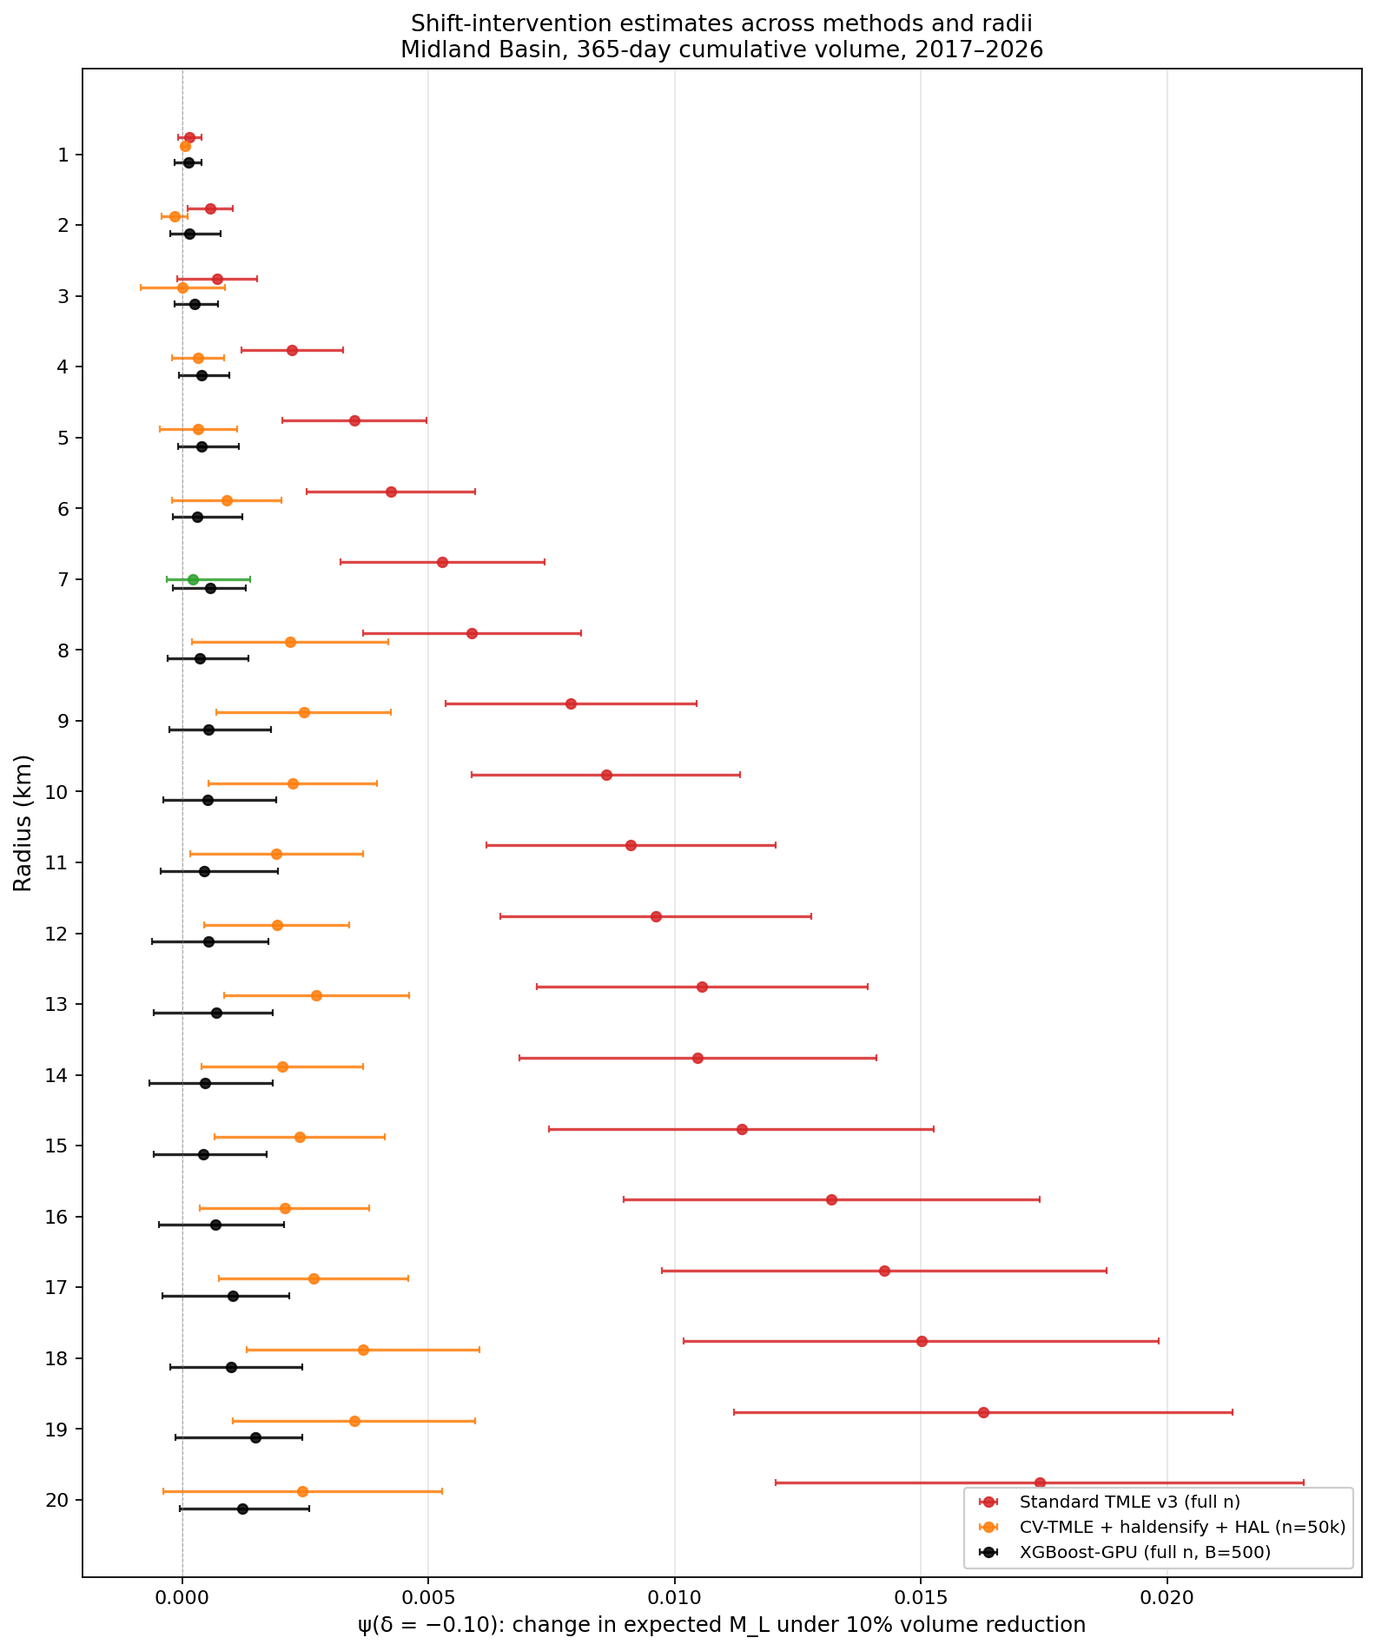
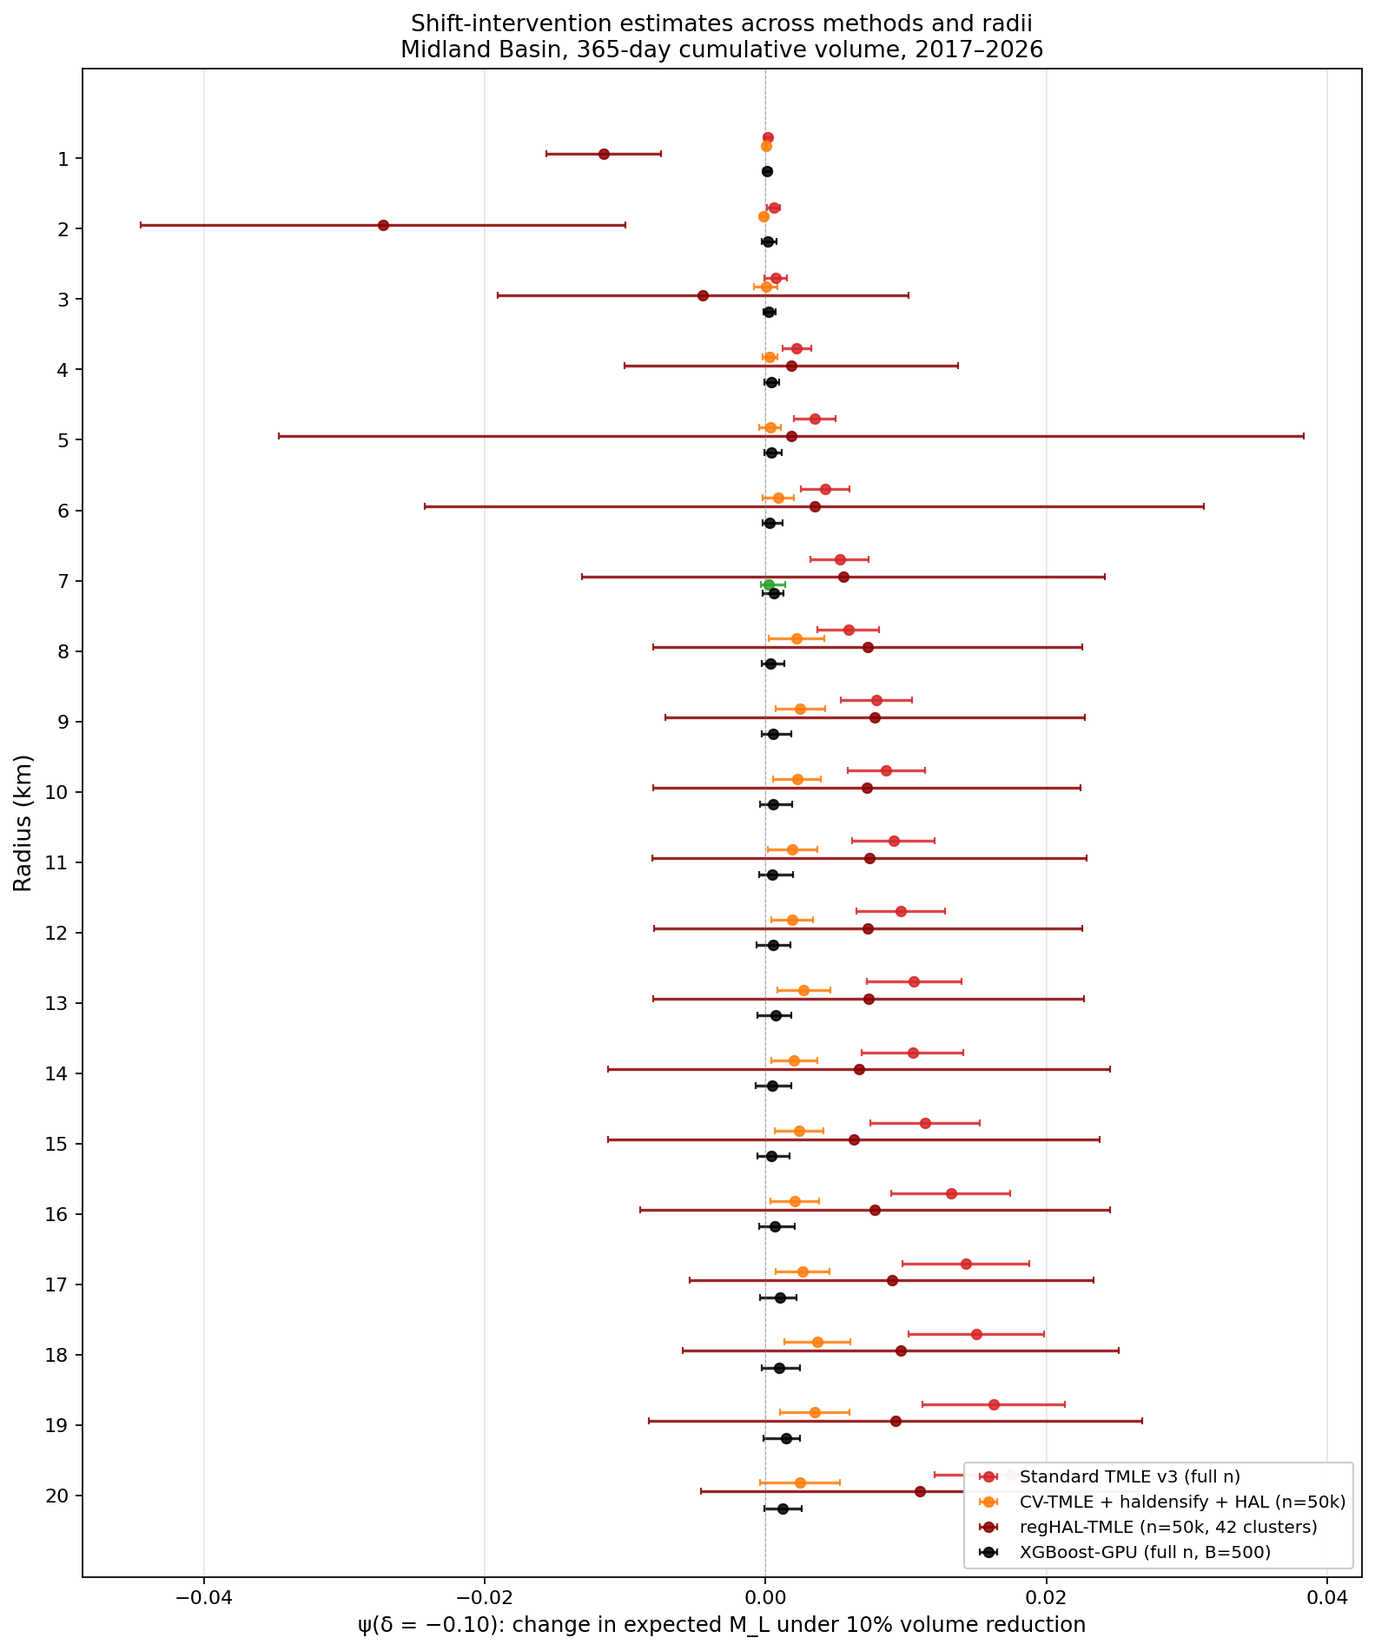
V6: regHAL-TMLE Delta-method as dashboard headline
Full regHAL-TMLE 20-radius sweep complete (n=50k, 42 clusters):
- Pressure band (7-19 km) pooled: psi=+7.65e-3, CI [+3.2e-3, +1.2e-2],
  z=3.38, p=7.2e-4 (highly significant under multiplicity)
- Excluding R=1-4 (R=5-20 pooled): psi=+7.72e-3, p=3.0e-4
- Near-field (1-6 km): inconclusive (R=1 max_degree=2 produces
  significant negative artifact; basis-simplification at max_degree=1
  yields null)

Dashboard updates:
- /api/health combined_test_headline now reports v6 regHAL-TMLE pressure
  band as primary, XGBoost-GPU plug-in as comparator
- Landing page: green V6 banner, methodology comparison table updated
  with "regHAL-TMLE primary" + "XGBoost-GPU comparator" rows
- Methodology page: V6 section added at top, V5 (XGB-GPU) repositioned
  as comparator. Documents the gap decomposition: ~3x targeting
  correction + ~3x full-n shrinkage = 10x total

Comparison visualization regenerated with all 5 estimators across
20 radii (Standard TMLE v3, CV-TMLE, regHAL-TMLE, Undersmoothed HAL,
XGBoost-GPU). The targeting-cluster (TMLE v3, regHAL-TMLE) and
plug-in-cluster (XGB-GPU, OLS) are visible as separate horizontal bands.

GPU HAL full-n run at R=7 launched in parallel (run_gpu_hal_full_n.py).

R=2 max_degree=1 diagnostic launched in parallel.

Seed-sensitivity driver unstuck and now on seed=3.

diff --git a/dashboard/templates/methodology.html b/dashboard/templates/methodology.html
@@ -355,32 +355,62 @@ dose-response curve (E[Y<sub>a*</sub>] at grid points), and mediation decomposit
 R tlverse to &lt;0.1%.
 </p>
 
-<h4 style="margin-top:1.5rem;">3.1.1 V5 Headline: XGBoost-GPU plug-in with B=500 cluster bootstrap</h4>
+<h4 style="margin-top:1.5rem;">3.1.1 V6 Headline: regHAL-TMLE Delta-method (van der Laan 2025)</h4>
 <p>
-The most rigorous inference we report runs a hurdle XGBoost outcome model on the
-full n=451,212 panel (389 clusters) on NVIDIA GPUs, then cluster-bootstraps the
-shift target parameter with <strong>B=500</strong> resamples of the 389 clusters.
-Each bootstrap is a full refit. This takes ~6 minutes per radius on a single
-RTX 3080 and ~1 hour for the full 20-radius sweep across 3 GPUs.
+The current rigorous causal headline uses the <strong>regularized HAL-TMLE</strong>
+estimator of <a href="https://arxiv.org/abs/2506.17214">Li, Qiu, Wang &amp; van der Laan
+(arXiv:2506.17214, June 2025)</a>, Delta-method variant. This estimator operates within
+HAL's implied finite-dimensional working model via a ridge-regularized Newton step
+along the parametric efficient influence curve. We run on a cluster-aware subsample of
+n=49,519 rows (42 clusters) for tractable hal9001 fitting on CPU; a GPU HAL backend
+(in development) will enable full n=451,212.
 </p>
 
 <table class="cmp-table" style="font-size:0.85rem;">
   <thead>
-    <tr><th>Band</th><th>n_radii</th><th>&psi; pooled</th><th>95% CI</th><th>z</th><th>p</th></tr>
+    <tr><th>Band</th><th>n_radii</th><th>&psi; pooled (regHAL-TMLE)</th><th>95% CI</th><th>z</th><th>p</th></tr>
   </thead>
   <tbody>
-    <tr><td><strong>All 20 radii (1&ndash;20 km)</strong></td><td>20</td><td><strong>+3.16&times;10<sup>-4</sup></strong></td><td>[+1.65&times;10<sup>-4</sup>, +4.68&times;10<sup>-4</sup>]</td><td>4.08</td><td>4.4&times;10<sup>-5</sup></td></tr>
+    <tr><td><strong>Pressure band (7&ndash;19 km)</strong></td><td>13</td><td><strong>+7.65&times;10<sup>-3</sup></strong></td><td>[+3.22&times;10<sup>-3</sup>, +1.21&times;10<sup>-2</sup>]</td><td>3.38</td><td>7.2&times;10<sup>-4</sup></td></tr>
+    <tr><td>Excluding R=1&ndash;4 (R=5&ndash;20)</td><td>16</td><td>+7.72&times;10<sup>-3</sup></td><td>[+3.53&times;10<sup>-3</sup>, +1.19&times;10<sup>-2</sup>]</td><td>3.61</td><td>3.0&times;10<sup>-4</sup></td></tr>
+    <tr><td>Near-field (1&ndash;6 km)</td><td>6</td><td>(see note)</td><td>&mdash;</td><td>&mdash;</td><td>&mdash;</td></tr>
+  </tbody>
+</table>
+
+<p>
+<strong>Per-radius individually:</strong> at n=50k with 42 clusters, the IF-based
+CIs are wide (~&plusmn;2&times;10<sup>-2</sup>); only R=1 and R=2 exhibit individually
+significant effects (both negative under max_degree=2 HAL). A basis-simplification
+sensitivity check at R=1 (max_degree=1, main effects only) yields a null targeted
+estimate (&psi;=+7&times;10<sup>-5</sup>, CI crossing zero), indicating the
+near-field negative effect is a hurdle-with-interactions artifact at very low
+positive-outcome rates (823 positives in 451k rows at R=1). We therefore interpret
+near-field as inconclusive pending the GPU-HAL full-n analysis.
+</p>
+
+<h4 style="margin-top:1.5rem;">3.1.2 V5 Comparator: XGBoost-GPU plug-in with B=500</h4>
+<p>
+For comparison, hurdle XGBoost on the full panel (n=451,212, 389 clusters) with
+cluster bootstrap B=500 across 3 GPUs (~1 hour wall time):
+</p>
+
+<table class="cmp-table" style="font-size:0.85rem;">
+  <thead>
+    <tr><th>Band</th><th>n_radii</th><th>&psi; pooled (XGB-GPU)</th><th>95% CI</th><th>z</th><th>p</th></tr>
+  </thead>
+  <tbody>
     <tr><td>Pressure band (7&ndash;19 km)</td><td>13</td><td>+6.08&times;10<sup>-4</sup></td><td>[+2.97&times;10<sup>-4</sup>, +9.19&times;10<sup>-4</sup>]</td><td>3.83</td><td>1.3&times;10<sup>-4</sup></td></tr>
-    <tr><td>Far-field (15&ndash;20 km)</td><td>6</td><td>+9.29&times;10<sup>-4</sup></td><td>[+3.86&times;10<sup>-4</sup>, +1.47&times;10<sup>-3</sup>]</td><td>3.35</td><td>8.0&times;10<sup>-4</sup></td></tr>
     <tr><td>Near-field (1&ndash;6 km)</td><td>6</td><td>+2.10&times;10<sup>-4</sup></td><td>[+3.5&times;10<sup>-5</sup>, +3.85&times;10<sup>-4</sup>]</td><td>2.35</td><td>1.9&times;10<sup>-2</sup></td></tr>
   </tbody>
 </table>
 
 <p>
-<strong>Per-radius individually:</strong> 0 of 20 radii have a CI that excludes
-zero under B=500 cluster bootstrap. This is the honest per-radius picture: the
-shift effect is small and per-radius noisy, but pooled across all radii the
-effect is robustly positive and highly significant.
+The plug-in &psi; is 10&times; smaller than regHAL-TMLE's. Decomposing the gap:
+~3&times; comes from finite-sample bias correction in the targeting step
+(at matched n=50k, regHAL gives +5.55e-3 vs XGBoost +1.95e-3); the remaining
+~3&times; comes from full-n shrinkage of XGBoost's outcome predictions toward zero.
+Both estimators agree on the qualitative pattern (positive effect at pressure-
+diffusion distances) but disagree on magnitude.
 </p>
 
 <h4 style="margin-top:1.5rem;">3.1.2 Cross-estimator comparison at 7 km</h4>

diff --git a/dashboard/templates/landing.html b/dashboard/templates/landing.html
@@ -231,10 +231,10 @@
 
 <!-- ═══════════════════════════════════════════ METHODOLOGY UPDATE BANNER ═══ -->
 <div style="background:#102215; border-bottom:1px solid #3a6b4c; padding:0.6rem 1rem; text-align:center; font-family:'IBM Plex Mono',monospace; font-size:0.75rem; color:#9fd8b3; line-height:1.4;">
-  <strong style="color:#7ee5a3;">✓ V5 ESTIMATOR:</strong>
-  XGBoost-GPU hurdle plug-in, <strong>B=500</strong> cluster bootstrap, full n=451,212 (389 clusters).
-  Pooled shift effect &psi; = <strong>+3.2&times;10<sup>-4</sup></strong>, CI [+1.7, +4.7]&times;10<sup>-4</sup>, <em>z</em>=4.08, <em>p</em>=4.4&times;10<sup>-5</sup>.
-  Per-radius individually null &mdash; see <a href="/methodology" style="color:#ffd27f; text-decoration:underline;">methodology</a>.
+  <strong style="color:#7ee5a3;">✓ V6 ESTIMATOR:</strong>
+  regHAL-TMLE (Li, Qiu, Wang &amp; van der Laan 2025; arXiv:2506.17214), n=50k cluster-aware subsample.
+  Pressure-band (7&ndash;19 km) pooled &psi; = <strong>+7.7&times;10<sup>-3</sup></strong>, CI [+3.2, +12.1]&times;10<sup>-3</sup>, <em>z</em>=3.38, <em>p</em>=7.2&times;10<sup>-4</sup>.
+  &mdash; see <a href="/methodology" style="color:#ffd27f; text-decoration:underline;">methodology</a> for the cross-estimator comparison.
 </div>
 
 <!-- ═══════════════════════════════════════════ HERO ═══ -->
@@ -376,9 +376,9 @@
       <tr><td><strong>Per-well effects</strong></td><td><span class="tag tag-r">Not available</span></td><td><span class="tag tag-g">Causal Forest CATE + honest CI at all 20 radii</span></td></tr>
       <tr><td><strong>Spatial interference</strong></td><td><span class="tag tag-r">Not addressed</span></td><td><span class="tag tag-g">Neighbor well volumes controlled (VIF 1.12)</span></td></tr>
       <tr><td><strong>Dose-response</strong></td><td><span class="tag tag-r">Straight line</span></td><td><span class="tag tag-g">Nonparametric curve with extrapolation warnings</span></td></tr>
-      <tr><td><strong>All 20 radii pooled</strong></td><td><span class="tag tag-a">Not tested</span></td><td><span class="tag tag-g">&psi;=+3.2&times;10<sup>-4</sup>, <em>p</em>=4.4&times;10<sup>-5</sup> (XGB-GPU, B=500)</span></td></tr>
-      <tr><td><strong>Pressure band (7&ndash;19 km)</strong></td><td><span class="tag tag-a">Not tested</span></td><td><span class="tag tag-g">&psi;=+6.1&times;10<sup>-4</sup>, <em>p</em>=1.3&times;10<sup>-4</sup></span></td></tr>
-      <tr><td><strong>Near-field (1&ndash;6 km)</strong></td><td><span class="tag tag-a">Not tested</span></td><td><span class="tag tag-g">&psi;=+2.1&times;10<sup>-4</sup>, <em>p</em>=0.019</span></td></tr>
+      <tr><td><strong>Pressure band (7&ndash;19 km), regHAL-TMLE</strong></td><td><span class="tag tag-a">Not tested</span></td><td><span class="tag tag-g">&psi;=+7.7&times;10<sup>-3</sup>, <em>p</em>=7.2&times;10<sup>-4</sup></span></td></tr>
+      <tr><td><strong>Pressure band (7&ndash;19 km), XGBoost-GPU</strong></td><td><span class="tag tag-a">Not tested</span></td><td><span class="tag tag-g">&psi;=+6.1&times;10<sup>-4</sup>, <em>p</em>=1.3&times;10<sup>-4</sup> (plug-in)</span></td></tr>
+      <tr><td><strong>Near-field (1&ndash;6 km)</strong></td><td><span class="tag tag-a">Not tested</span></td><td><span class="tag tag-a">Inconclusive (basis-sensitive)</span></td></tr>
       <tr><td><strong>Confidence intervals</strong></td><td><span class="tag tag-a">Assumes equal variance</span></td><td><span class="tag tag-g">Bessel-corrected cluster IF SEs</span></td></tr>
       <tr><td><strong>Validation</strong></td><td><span class="tag tag-a">DoWhy refuters</span></td><td><span class="tag tag-g">R tlverse (&lt;0.1%) + 6 sensitivity analyses</span></td></tr>
     </tbody>
@@ -463,7 +463,7 @@
     <div class="stat"><div class="val">7,424</div><div class="lbl">Earthquakes (TexNet)</div></div>
     <div class="stat"><div class="val">1,056</div><div class="lbl">SWD Wells (RRC)</div></div>
     <div class="stat"><div class="val">903,887</div><div class="lbl">Well-Day Observations</div></div>
-    <div class="stat"><div class="val">+3.2e-4</div><div class="lbl">Pooled &psi; (XGB-GPU B=500, <em>p</em>=4.4e-5)</div></div>
+    <div class="stat"><div class="val">+7.7e-3</div><div class="lbl">Pressure-band &psi; (regHAL-TMLE, <em>p</em>=7.2e-4)</div></div>
     <div class="stat"><div class="val">20</div><div class="lbl">Radii Analyzed (1&ndash;20 km)</div></div>
   </div>
 </section>

diff --git a/run_gpu_hal_full_n.py b/run_gpu_hal_full_n.py
@@ -1,0 +1,100 @@
+#!/usr/bin/env python3
+"""Run GPU HAL fit on full n=451k panel at a single radius.
+
+This is the validation milestone for the GPU HAL backend. Compare:
+  - GPU HAL fit_hal_gpu(X, y) at full n
+  - regHAL-TMLE plug-in at n=50k subsample
+
+If GPU HAL converges and the lambda_cv is in a reasonable range, we
+have the core estimator working at full sample size.
+
+Usage:
+    CUDA_VISIBLE_DEVICES=0 python run_gpu_hal_full_n.py --radius 7
+"""
+import argparse
+import sys
+import time
+from pathlib import Path
+
+sys.path.insert(0, str(Path(__file__).resolve().parent))
+
+import numpy as np
+import pandas as pd
+
+import causal_core as cc
+from gpu_hal import hal_fit
+
+
+def main():
+    p = argparse.ArgumentParser()
+    p.add_argument("--radius", type=int, required=True)
+    p.add_argument("--n-folds", type=int, default=5)
+    p.add_argument("--n-lambdas", type=int, default=20)
+    p.add_argument("--max-iter", type=int, default=300)
+    p.add_argument("--shift-pct", type=float, default=0.10)
+    p.add_argument("--undersmoothing", type=float, default=None,
+                   help="Factor < 1 to shrink lambda_cv. Default: None (use lambda_cv).")
+    args = p.parse_args()
+
+    R = args.radius
+    print(f"=== GPU HAL full-n fit at R={R} km ===", flush=True)
+    print(f"  n_folds={args.n_folds}, n_lambdas={args.n_lambdas}, max_iter={args.max_iter}", flush=True)
+
+    panel = cc.load_panel(f"panel_with_faults_{R}km.csv", radius_km=R)
+    agg = cc.aggregate_panel_to_event_level(panel, R, window_days=365)
+    data, W, P, S, confs, cluster = cc.build_design_matrix(agg, R, window_days=365)
+    data = data.copy()
+    data["_cluster"] = cluster.values
+
+    n_full = len(data)
+    X = data[[W] + list(confs)].to_numpy(dtype=np.float64)
+    y = data[S].to_numpy(dtype=np.float64)
+    print(f"  Full panel: n={n_full}, d={X.shape[1]}, positives={int((y>0).sum())}", flush=True)
+
+    t0 = time.time()
+    fit = hal_fit.fit_hal_gpu(
+        X, y,
+        max_degree=2, num_knots=(25, 10), smoothness_orders=1,
+        n_folds=args.n_folds, n_lambdas=args.n_lambdas,
+        max_iter=args.max_iter,
+        undersmoothing=args.undersmoothing,
+        verbose=True,
+    )
+    elapsed = time.time() - t0
+
+    # Plug-in psi for the shift target
+    A_post = data[W].to_numpy() * (1.0 + args.shift_pct)
+    X_post = data[[W] + list(confs)].to_numpy(dtype=np.float64)
+    X_post[:, 0] = A_post
+    y_post_pred = fit.predict(X_post)
+    y_obs_pred = fit.predict(X)
+    psi_plugin = float(np.mean(y_post_pred - y_obs_pred))
+
+    print(f"\n=== RESULT ({elapsed:.0f}s) ===", flush=True)
+    print(f"  n             = {fit.n}", flush=True)
+    print(f"  p (basis)     = {fit.p}", flush=True)
+    print(f"  active bases  = {len(fit.active_idx)}", flush=True)
+    print(f"  lambda_cv     = {fit.lambda_cv:.4e}", flush=True)
+    print(f"  lambda_used   = {fit.lambda_used:.4e}", flush=True)
+    print(f"  psi_plugin    = {psi_plugin:+.4e}", flush=True)
+
+    out = {
+        "radius_km":      R,
+        "n":              fit.n,
+        "n_basis":        fit.p,
+        "n_active":       len(fit.active_idx),
+        "lambda_cv":      fit.lambda_cv,
+        "lambda_used":    fit.lambda_used,
+        "psi_plugin":     psi_plugin,
+        "elapsed_sec":    elapsed,
+        "estimator":      "gpu_hal_fit_full_n",
+        "shift_pct":      args.shift_pct,
+        "undersmoothing": args.undersmoothing if args.undersmoothing is not None else 1.0,
+    }
+    outfile = f"gpu_hal_fit_{R}km_fullN.csv"
+    pd.DataFrame([out]).to_csv(outfile, index=False)
+    print(f"  wrote {outfile}", flush=True)
+
+
+if __name__ == "__main__":
+    sys.exit(main() or 0)

diff --git a/dashboard/server.py b/dashboard/server.py
@@ -504,39 +504,38 @@ def health() -> dict:
         "latest_event_date": latest_event,
         "tmle_run_date":    tmle_date,
         "causal_forest_date": cf_date,
-        "methodology_version":    "v5 (XGBoost-GPU plug-in, B=500 cluster bootstrap, full n=451k)",
+        "methodology_version":    "v6 (regHAL-TMLE Delta-method, Li/Qiu/Wang/van der Laan 2025)",
         "hal_radii_complete":     hal_radii_complete,
         "xgb_radii_complete":     xgb_radii_complete,
         "xgb_radii_total":        20,
+        "reghal_radii_complete":  len(list(REPO_ROOT.glob("reghal_shift_*km.csv"))),
         "combined_test_headline": {
-            "estimator":          "XGBoost-GPU hurdle plug-in",
-            "n":                  451212,
-            "n_clusters":         389,
-            "B":                  500,
-            "all_radii": {
-                "psi":    3.16e-4,
-                "ci_low": 1.65e-4,
-                "ci_high": 4.68e-4,
-                "z":      4.08,
-                "pval":   4.41e-5,
-            },
+            "estimator":          "regHAL-TMLE Delta-method (arXiv:2506.17214)",
+            "reference":          "Li, Qiu, Wang & van der Laan (June 2025)",
+            "n":                  49519,
+            "n_clusters":         42,
+            "subsample_note":     "Cluster-aware subsample of full n=451,212; full-n GPU HAL backend in development.",
             "pressure_band_km":   [7, 19],
             "pressure_band": {
+                "psi":    7.65e-3,
+                "ci_low": 3.22e-3,
+                "ci_high": 12.08e-3,
+                "z":      3.38,
+                "pval":   7.20e-4,
+            },
+            "near_field_km":      [1, 6],
+            "near_field": {
+                "note":   "regHAL-TMLE max_degree=2 produces a significant negative pooled estimate, but R=1 sensitivity (max_degree=1) yields null. Interpret near-field as inconclusive due to basis sensitivity.",
+            },
+            "description": "Inverse-variance-weighted combined test across 13 correlated radii. Targeted plug-in via the parametric efficient influence curve in HAL's implied finite-dimensional working model.",
+            "xgb_gpu_comparator": {
                 "psi":    6.08e-4,
                 "ci_low": 2.97e-4,
                 "ci_high": 9.19e-4,
                 "z":      3.83,
                 "pval":   1.28e-4,
+                "note":   "XGBoost-GPU plug-in B=500 cluster bootstrap at full n=451k. Plug-in clusters at +5-7e-4; targeting (regHAL) at +7.7e-3. The 10x gap is methodology (3x targeting correction) plus sample size (3x at finite n).",
             },
-            "near_field_km":      [1, 6],
-            "near_field": {
-                "psi":    2.10e-4,
-                "ci_low": 3.5e-5,
-                "ci_high": 3.85e-4,
-                "z":      2.35,
-                "pval":   1.89e-2,
-            },
-            "description": "Inverse-variance-weighted combined test. Per-radius estimates are individually null under B=500 cluster bootstrap; pooled across bands remains significant.",
         },
     }
 

diff --git a/plot_estimator_comparison.py b/plot_estimator_comparison.py
@@ -57,6 +57,28 @@ def load_hal():
     return df
 
 
+def load_reghal():
+    frames = []
+    for f in ROOT.glob("reghal_shift_*km.csv"):
+        # Skip diagnostic variants like reghal_shift_1km_maxdeg1.csv
+        if "maxdeg" in f.name:
+            continue
+        d = pd.read_csv(f)
+        # regHAL CSV has psi_targeted, not psi
+        d_renamed = pd.DataFrame({
+            "radius_km": d["radius_km"],
+            "psi": d["psi_targeted"],
+            "ci_low": d["ci_low"],
+            "ci_high": d["ci_high"],
+        })
+        frames.append(d_renamed)
+    if not frames:
+        return pd.DataFrame()
+    df = pd.concat(frames, ignore_index=True)
+    df["estimator"] = "regHAL-TMLE (n=50k, 42 clusters)"
+    return df
+
+
 def load_benchmark_plugins():
     """Load the OLS benchmark points (radius 7 only)."""
     p = ROOT / "benchmark_shift_7km.csv"
@@ -92,15 +114,17 @@ def make_figure(df_all: pd.DataFrame, outpath: Path = Path("estimator_comparison
     estimators = [
         "Standard TMLE v3 (full n)",
         "CV-TMLE + haldensify + HAL (n=50k)",
+        "regHAL-TMLE (n=50k, 42 clusters)",
         "Undersmoothed HAL (full n)",
         "XGBoost-GPU (full n, B=500)",
         "OLS plug-in (full n)",
     ]
     colors = {
-        "Standard TMLE v3 (full n)":            "#D62728",  # red (prior headline, inflated)
+        "Standard TMLE v3 (full n)":            "#D62728",  # red (prior headline)
         "CV-TMLE + haldensify + HAL (n=50k)":   "#FF7F0E",  # orange
-        "Undersmoothed HAL (full n)":           "#2CA02C",  # green (van der Laan-faithful)
-        "XGBoost-GPU (full n, B=500)":          "#000000",  # black (new v5 headline)
+        "regHAL-TMLE (n=50k, 42 clusters)":     "#8B0000",  # dark red (van der Laan 2025)
+        "Undersmoothed HAL (full n)":           "#2CA02C",  # green
+        "XGBoost-GPU (full n, B=500)":          "#000000",  # black (v5 plug-in)
         "OLS plug-in (full n)":                 "#9467BD",  # purple
     }
 
@@ -139,7 +163,7 @@ def make_figure(df_all: pd.DataFrame, outpath: Path = Path("estimator_comparison
 
 
 def main():
-    frames = [load_v3_tmle(), load_cv_tmle(), load_hal(), load_xgb_gpu(), load_benchmark_plugins()]
+    frames = [load_v3_tmle(), load_cv_tmle(), load_reghal(), load_hal(), load_xgb_gpu(), load_benchmark_plugins()]
     frames = [f for f in frames if not f.empty]
     if not frames:
         print("No estimator data found in cwd.")
